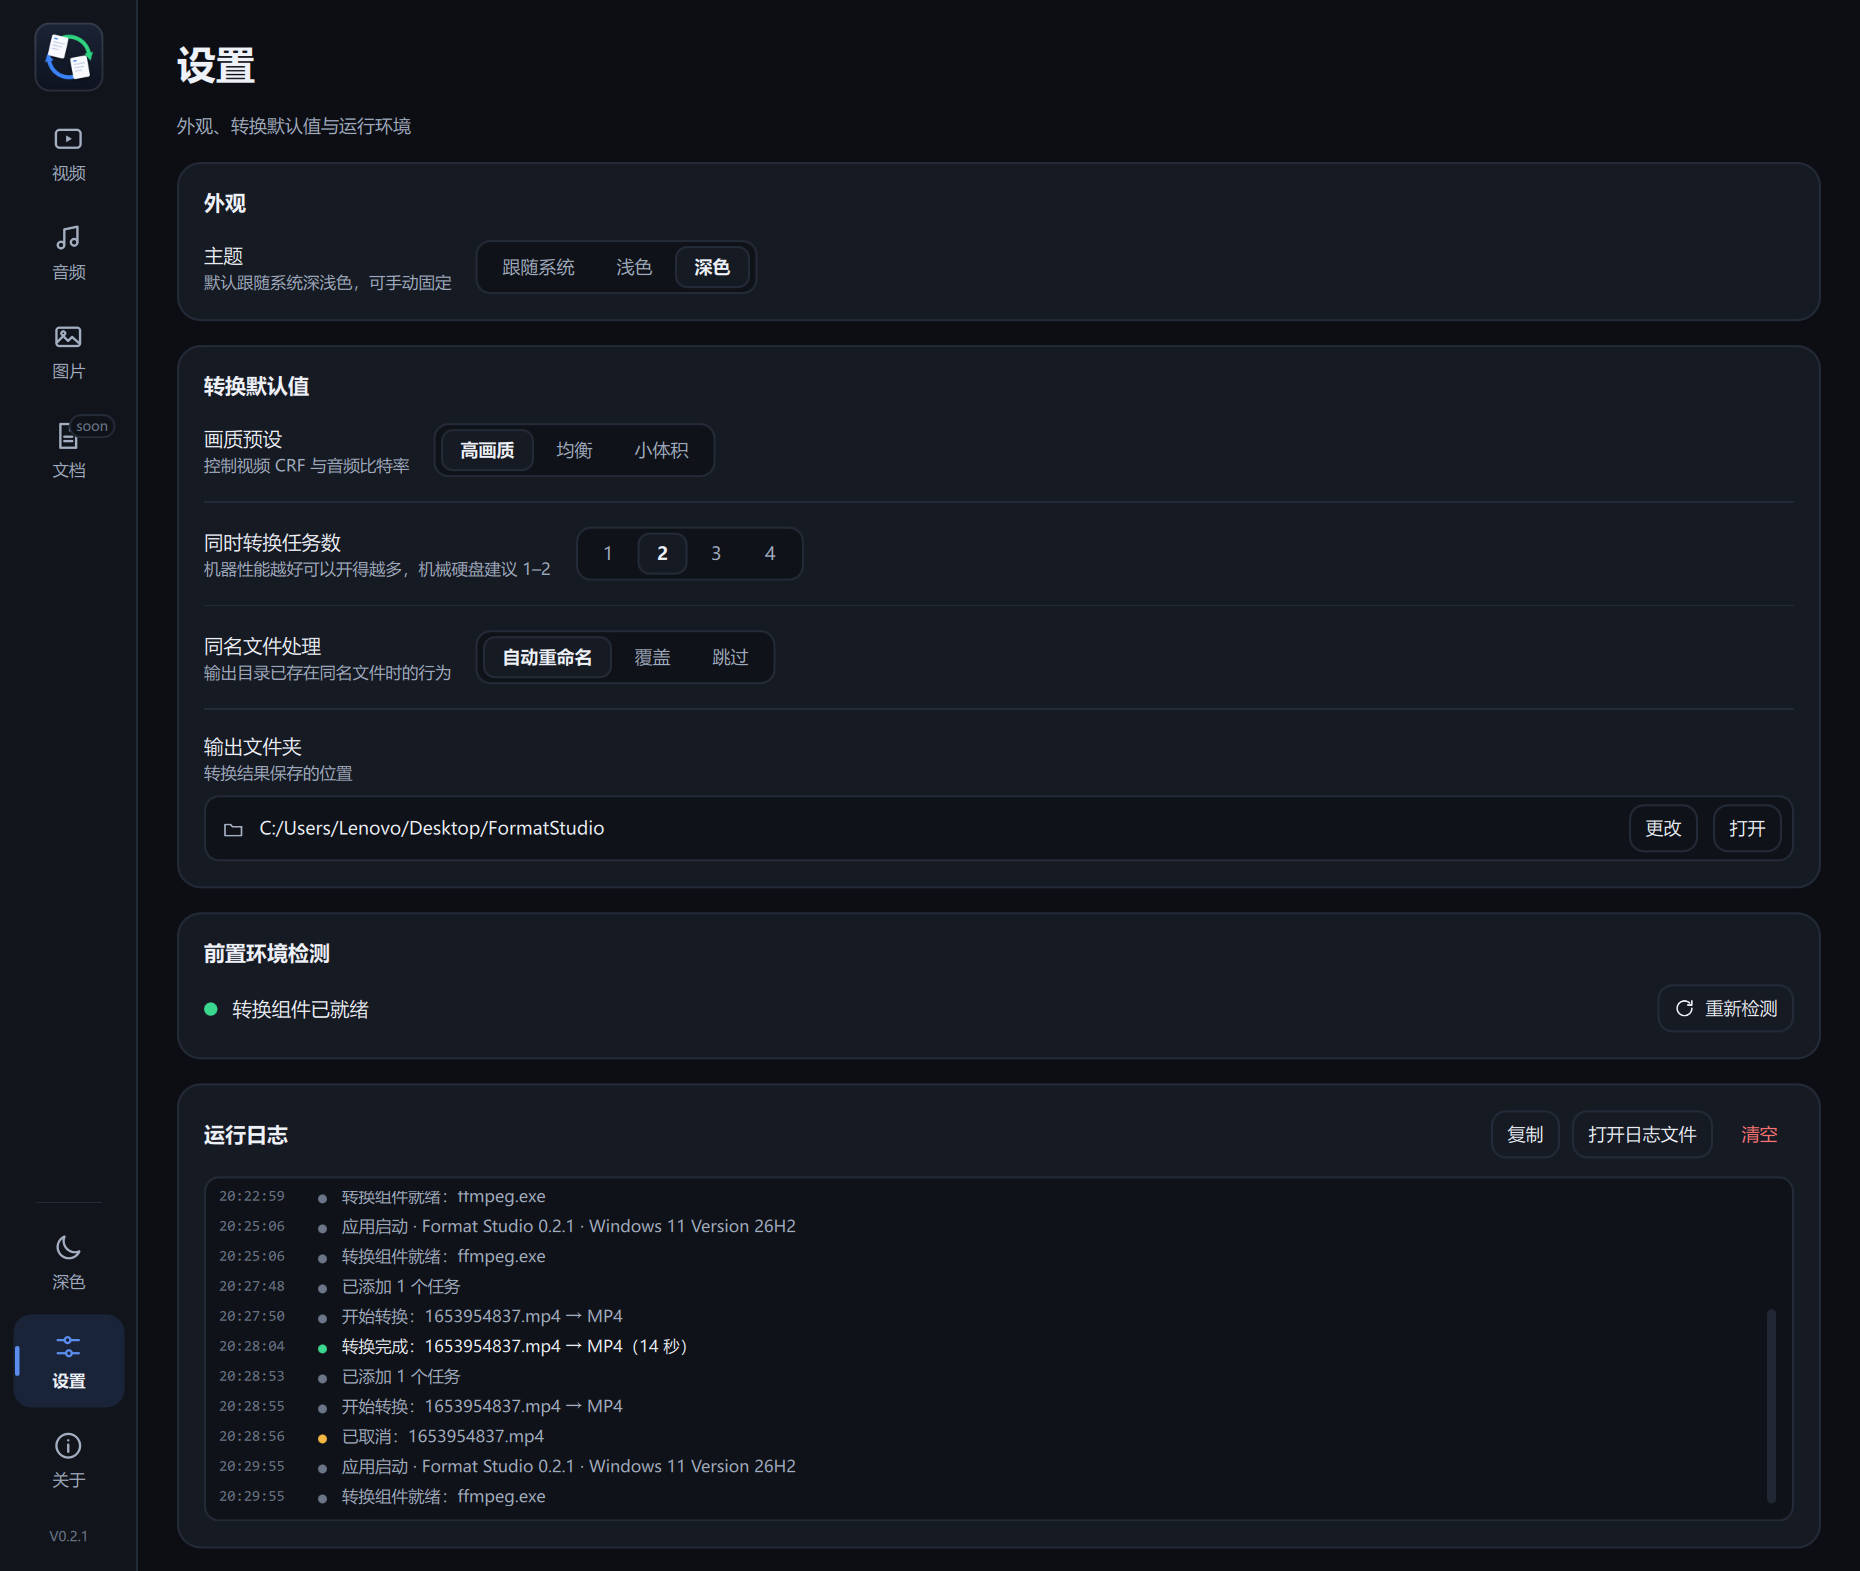
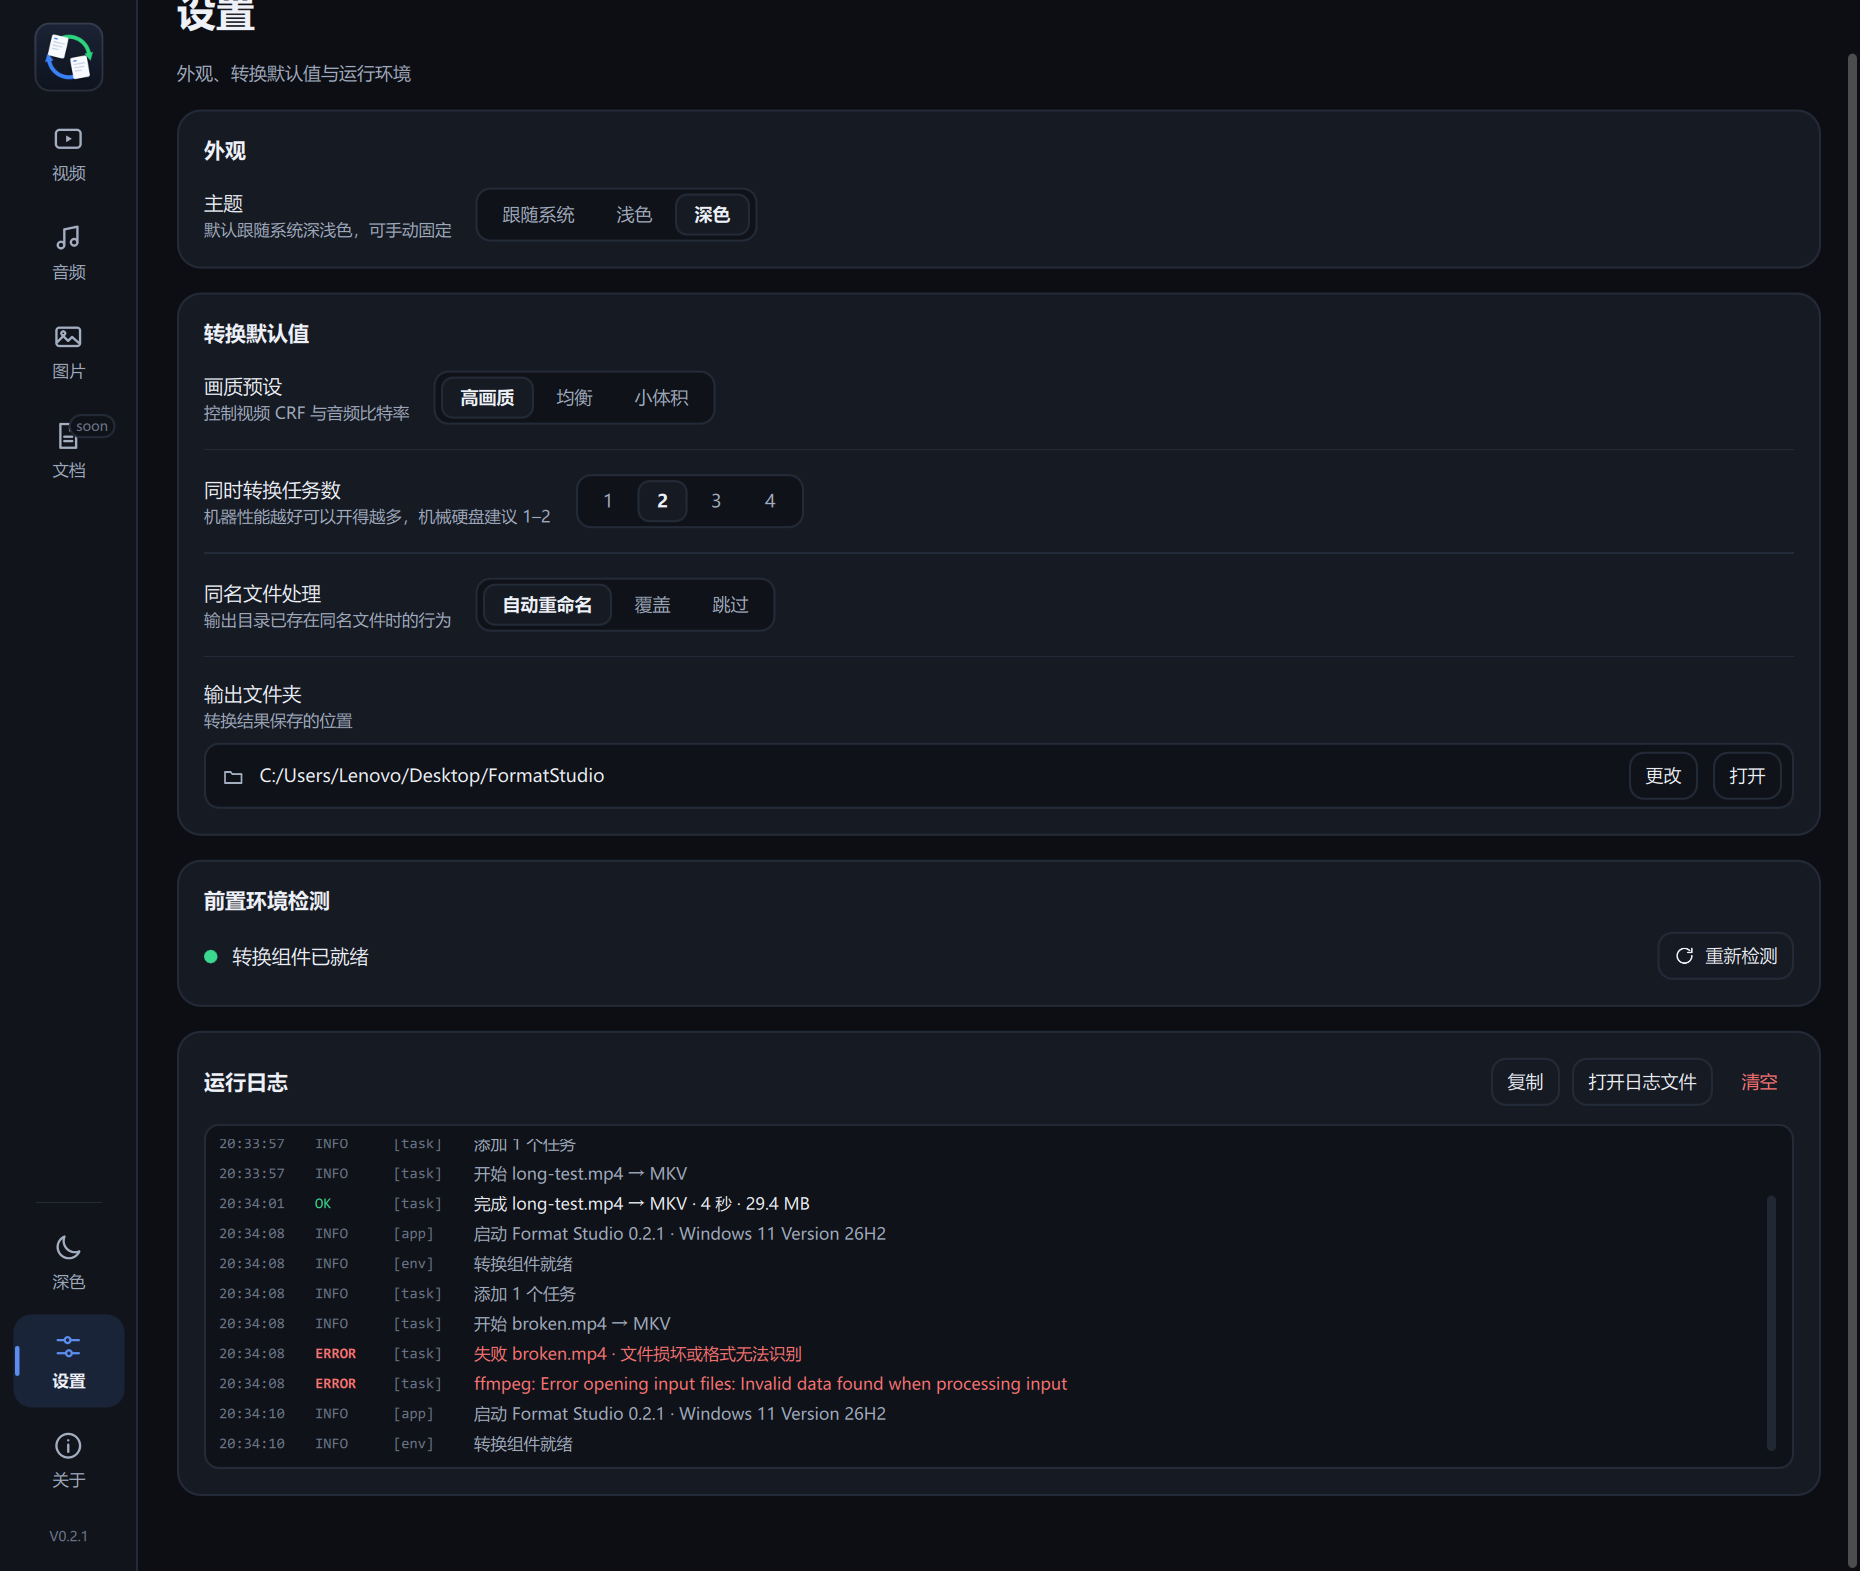
style: 规范运行日志格式（时间/级别/模块/内容，文件写入毫秒时间戳）

diff --git a/SettingsPage.qml b/SettingsPage.qml
@@ -424,26 +424,36 @@ Item {
                                     color: Theme.textFaint
                                     font.pixelSize: 10
                                     font.family: "Consolas"
-                                    Layout.preferredWidth: 56
+                                    Layout.preferredWidth: 54
                                 }
 
-                                Rectangle {
-                                    width: 6
-                                    height: 6
-                                    radius: 3
-                                    Layout.alignment: Qt.AlignTop
-                                    Layout.topMargin: 6
-                                    color: modelData.level === "success" ? Theme.success
-                                           : modelData.level === "error" ? Theme.danger
-                                           : modelData.level === "warning" ? Theme.warning
+                                Text {
+                                    text: modelData.level
+                                    color: modelData.level === "OK" ? Theme.success
+                                           : modelData.level === "ERROR" ? Theme.danger
+                                           : modelData.level === "WARN" ? Theme.warning
                                            : Theme.textFaint
+                                    font.pixelSize: 10
+                                    font.family: "Consolas"
+                                    font.weight: modelData.level === "ERROR" ? Font.DemiBold
+                                                                             : Font.Normal
+                                    Layout.preferredWidth: 42
+                                }
+
+                                Text {
+                                    text: "[" + modelData.module + "]"
+                                    visible: modelData.module !== ""
+                                    color: Theme.textFaint
+                                    font.pixelSize: 10
+                                    font.family: "Consolas"
+                                    Layout.preferredWidth: 44
                                 }
 
                                 Text {
                                     Layout.fillWidth: true
                                     text: modelData.text
-                                    color: modelData.level === "error" ? Theme.danger
-                                           : modelData.level === "success" ? Theme.text
+                                    color: modelData.level === "ERROR" ? Theme.danger
+                                           : modelData.level === "OK" ? Theme.text
                                            : Theme.textDim
                                     font.pixelSize: 11
                                     wrapMode: Text.Wrap

diff --git a/converterbackend.cpp b/converterbackend.cpp
@@ -66,6 +66,14 @@ QString lastNonEmptyLine(const QString &text)
     return QString();
 }
 
+QString humanSize(qint64 bytes)
+{
+    const double mb = double(bytes) / (1024.0 * 1024.0);
+    if (mb >= 1.0)
+        return QStringLiteral("%1 MB").arg(QString::number(mb, 'f', 1));
+    return QStringLiteral("%1 KB").arg(QString::number(bytes / 1024.0, 'f', 0));
+}
+
 QString humanError(const QString &stderrText, int exitCode)
 {
     const QStringList lines = stderrText.split(QLatin1Char('\n'), Qt::SkipEmptyParts);
@@ -106,8 +114,8 @@ ConverterBackend::ConverterBackend(QObject *parent)
     m_model->setKindFilter(m_kindFilter);
 
     loadRecentLog();
-    log(QStringLiteral("info"),
-        QStringLiteral("应用启动 · Format Studio %1 · %2")
+    log(QStringLiteral("INFO"), QStringLiteral("app"),
+        QStringLiteral("启动 Format Studio %1 · %2")
             .arg(QCoreApplication::applicationVersion(), QSysInfo::prettyProductName()));
 
     detectFfmpeg();
@@ -456,7 +464,8 @@ void ConverterBackend::addPaths(const QStringList &paths)
     }
 
     if (added > 0) {
-        log(QStringLiteral("info"), QStringLiteral("已添加 %1 个任务").arg(added));
+        log(QStringLiteral("INFO"), QStringLiteral("task"),
+            QStringLiteral("添加 %1 个任务").arg(added));
         if (elsewhere == added && !firstKind.isEmpty()) {
             setKindFilter(firstKind);
             emit toast(QStringLiteral("已添加 %1 个%2任务，已切换到对应分类")
@@ -804,8 +813,8 @@ void ConverterBackend::startTaskInternal(const QString &id)
             t.status = TaskStatus::Skipped;
             t.error = QStringLiteral("输出文件已存在，已按设置跳过");
         }, { TaskModel::StatusRole, TaskModel::StatusTextRole, TaskModel::ErrorRole });
-        log(QStringLiteral("warning"),
-            QStringLiteral("已跳过：%1（输出文件已存在）")
+        log(QStringLiteral("WARN"), QStringLiteral("task"),
+            QStringLiteral("跳过 %1 · 输出文件已存在")
                 .arg(QFileInfo(task->inputPath).fileName()));
         return;
     }
@@ -842,8 +851,8 @@ void ConverterBackend::startTaskInternal(const QString &id)
          TaskModel::OutputPathRole, TaskModel::OutputSizeRole });
 
     m_startedAt.insert(id, QDateTime::currentMSecsSinceEpoch());
-    log(QStringLiteral("info"),
-        QStringLiteral("开始转换：%1 → %2")
+    log(QStringLiteral("INFO"), QStringLiteral("task"),
+        QStringLiteral("开始 %1 → %2")
             .arg(QFileInfo(task->inputPath).fileName(), task->format.toUpper()));
 
     connect(proc, &QProcess::readyReadStandardOutput, this, [this, id]() { handleProgressChunk(id); });
@@ -880,8 +889,8 @@ void ConverterBackend::failTask(const QString &id, const QString &reason)
          TaskModel::SpeedRole, TaskModel::EtaRole });
     m_startedAt.remove(id);
     if (const ConversionTask *task = m_model->find(id))
-        log(QStringLiteral("error"),
-            QStringLiteral("无法开始：%1 — %2")
+        log(QStringLiteral("ERROR"), QStringLiteral("task"),
+            QStringLiteral("无法开始 %1 · %2")
                 .arg(QFileInfo(task->inputPath).fileName(), reason));
     emit toast(reason, QStringLiteral("error"));
     schedule();
@@ -977,8 +986,10 @@ void ConverterBackend::finishTask(const QString &id, int exitCode, QProcess::Exi
         }, { TaskModel::StatusRole, TaskModel::StatusTextRole, TaskModel::SpeedRole,
              TaskModel::EtaRole, TaskModel::ProgressRole });
         m_startedAt.remove(id);
-        log(QStringLiteral("warning"),
-            QStringLiteral("已取消：%1").arg(QFileInfo(task->inputPath).fileName()));
+        log(QStringLiteral("WARN"), QStringLiteral("task"),
+            QStringLiteral("取消 %1 · 已转换 %2%")
+                .arg(QFileInfo(task->inputPath).fileName())
+                .arg(qRound(task->progress)));
         schedule();
         return;
     }
@@ -995,11 +1006,12 @@ void ConverterBackend::finishTask(const QString &id, int exitCode, QProcess::Exi
              TaskModel::LogRole, TaskModel::SpeedRole, TaskModel::EtaRole });
         m_startedAt.remove(id);
         const QString fileName = QFileInfo(task->inputPath).fileName();
-        log(QStringLiteral("error"),
-            QStringLiteral("转换失败：%1 — %2").arg(fileName, reason));
+        log(QStringLiteral("ERROR"), QStringLiteral("task"),
+            QStringLiteral("失败 %1 · %2").arg(fileName, reason));
         const QString detail = lastNonEmptyLine(tail);
         if (!detail.isEmpty() && !reason.contains(detail))
-            log(QStringLiteral("error"), QStringLiteral("ffmpeg：%1").arg(detail));
+            log(QStringLiteral("ERROR"), QStringLiteral("task"),
+                QStringLiteral("ffmpeg: %1").arg(detail));
         emit toast(reason, QStringLiteral("error"));
         schedule();
         return;
@@ -1014,8 +1026,8 @@ void ConverterBackend::finishTask(const QString &id, int exitCode, QProcess::Exi
         }, { TaskModel::StatusRole, TaskModel::StatusTextRole, TaskModel::ErrorRole,
              TaskModel::SpeedRole, TaskModel::EtaRole });
         m_startedAt.remove(id);
-        log(QStringLiteral("error"),
-            QStringLiteral("转换失败：%1 — 输出文件未生成")
+        log(QStringLiteral("ERROR"), QStringLiteral("task"),
+            QStringLiteral("失败 %1 · 输出文件未生成")
                 .arg(QFileInfo(task->inputPath).fileName()));
         emit toast(QStringLiteral("输出文件未生成"), QStringLiteral("error"));
         schedule();
@@ -1039,11 +1051,11 @@ void ConverterBackend::finishTask(const QString &id, int exitCode, QProcess::Exi
                                    ? qMax<qint64>(1, (QDateTime::currentMSecsSinceEpoch() - started) / 1000)
                                    : 0;
         const QString fileName = QFileInfo(task->inputPath).fileName();
-        log(QStringLiteral("success"),
-            seconds > 0
-                ? QStringLiteral("转换完成：%1 → %2（%3 秒）")
-                      .arg(fileName, task->format.toUpper()).arg(seconds)
-                : QStringLiteral("转换完成：%1 → %2").arg(fileName, task->format.toUpper()));
+        log(QStringLiteral("OK"), QStringLiteral("task"),
+            QStringLiteral("完成 %1 → %2 · %3 秒 · %4")
+                .arg(fileName, task->format.toUpper())
+                .arg(seconds)
+                .arg(humanSize(QFileInfo(outPath).size())));
     }
 
     schedule();
@@ -1124,7 +1136,8 @@ void ConverterBackend::startAll()
     }
     if (m_ffmpeg.isEmpty()) {
         emit toast(QStringLiteral("未检测到转换组件，无法开始转换"), QStringLiteral("error"));
-        log(QStringLiteral("error"), QStringLiteral("未检测到转换组件，转换无法开始"));
+        log(QStringLiteral("ERROR"), QStringLiteral("env"),
+            QStringLiteral("未检测到转换组件，转换无法开始"));
         return;
     }
     m_activeKind = kind;
@@ -1420,10 +1433,11 @@ void ConverterBackend::detectFfmpeg()
     if (changed || !m_ffmpeg.isEmpty()) {
         if (changed) {
             if (m_ffmpeg.isEmpty())
-                log(QStringLiteral("error"), QStringLiteral("未检测到转换组件"));
+                log(QStringLiteral("ERROR"), QStringLiteral("env"),
+                    QStringLiteral("未检测到转换组件"));
             else
-                log(QStringLiteral("info"),
-                    QStringLiteral("转换组件就绪：%1").arg(QFileInfo(m_ffmpeg).fileName()));
+                log(QStringLiteral("INFO"), QStringLiteral("env"),
+                    QStringLiteral("转换组件就绪"));
         }
         emit ffmpegChanged();
     }
@@ -1438,13 +1452,14 @@ QString ConverterBackend::logFilePath() const
     return QDir(dir).filePath(QStringLiteral("FormatStudio.log"));
 }
 
-void ConverterBackend::log(const QString &level, const QString &text)
+void ConverterBackend::log(const QString &level, const QString &module, const QString &text)
 {
     const QDateTime now = QDateTime::currentDateTime();
 
     m_logEntries.append(QVariantMap{
         { QStringLiteral("time"), now.toString(QStringLiteral("HH:mm:ss")) },
         { QStringLiteral("level"), level },
+        { QStringLiteral("module"), module },
         { QStringLiteral("text"), text },
     });
     while (m_logEntries.size() > 200)
@@ -1458,8 +1473,11 @@ void ConverterBackend::log(const QString &level, const QString &text)
 
     QFile file(path);
     if (file.open(QIODevice::WriteOnly | QIODevice::Append | QIODevice::Text)) {
-        file.write(QStringLiteral("%1 [%2] %3\n")
-                       .arg(now.toString(Qt::ISODate), level, text)
+        file.write(QStringLiteral("%1 [%2] [%3] %4\n")
+                       .arg(now.toString(QStringLiteral("yyyy-MM-dd HH:mm:ss.zzz")),
+                            level.leftJustified(5, QLatin1Char(' ')),
+                            module.leftJustified(4, QLatin1Char(' ')),
+                            text)
                        .toUtf8());
     }
 }
@@ -1487,13 +1505,36 @@ void ConverterBackend::loadRecentLog()
         QString time = open > 0 ? line.left(open).trimmed() : QString();
         if (time.size() >= 19)
             time = time.mid(11, 8);
-        const QString level = (open >= 0 && close > open)
-                                  ? line.mid(open + 1, close - open - 1)
-                                  : QStringLiteral("info");
-        const QString text = close > 0 ? line.mid(close + 1).trimmed() : line;
+
+        QString level = (open >= 0 && close > open)
+                            ? line.mid(open + 1, close - open - 1).trimmed().toUpper()
+                            : QStringLiteral("INFO");
+        if (level.isEmpty())
+            level = QStringLiteral("INFO");
+        if (level == QLatin1String("SUCCESS"))
+            level = QStringLiteral("OK");
+        if (level == QLatin1String("WARNING"))
+            level = QStringLiteral("WARN");
+
+        QString module;
+        QString text;
+        int pos = close + 1;
+        while (pos < line.size() && line.at(pos) == QLatin1Char(' '))
+            ++pos;
+        if (pos < line.size() && line.at(pos) == QLatin1Char('[')) {
+            const int moduleClose = line.indexOf(QLatin1Char(']'), pos + 1);
+            if (moduleClose > pos) {
+                module = line.mid(pos + 1, moduleClose - pos - 1).trimmed();
+                text = line.mid(moduleClose + 1).trimmed();
+            }
+        }
+        if (text.isEmpty())
+            text = close > 0 ? line.mid(close + 1).trimmed() : line;
+
         m_logEntries.append(QVariantMap{
             { QStringLiteral("time"), time },
             { QStringLiteral("level"), level },
+            { QStringLiteral("module"), module },
             { QStringLiteral("text"), text },
         });
     }
@@ -1526,9 +1567,10 @@ void ConverterBackend::copyLog()
     QStringList lines;
     for (const QVariant &entry : std::as_const(m_logEntries)) {
         const QVariantMap map = entry.toMap();
-        lines << QStringLiteral("%1 [%2] %3")
+        lines << QStringLiteral("%1 [%2] [%3] %4")
                      .arg(map.value(QStringLiteral("time")).toString(),
                           map.value(QStringLiteral("level")).toString(),
+                          map.value(QStringLiteral("module")).toString(),
                           map.value(QStringLiteral("text")).toString());
     }
     if (QClipboard *clipboard = QGuiApplication::clipboard())

diff --git a/converterbackend.h b/converterbackend.h
@@ -141,7 +141,7 @@ private:
     static QString kindLabel(const QString &kind);
     void removeFinishedInternal(const QString &kind);
     void clearInternal(const QString &kind);
-    void log(const QString &level, const QString &text);
+    void log(const QString &level, const QString &module, const QString &text);
     void loadRecentLog();
     QString logFilePath() const;
     void finishTask(const QString &id, int exitCode, QProcess::ExitStatus status);
